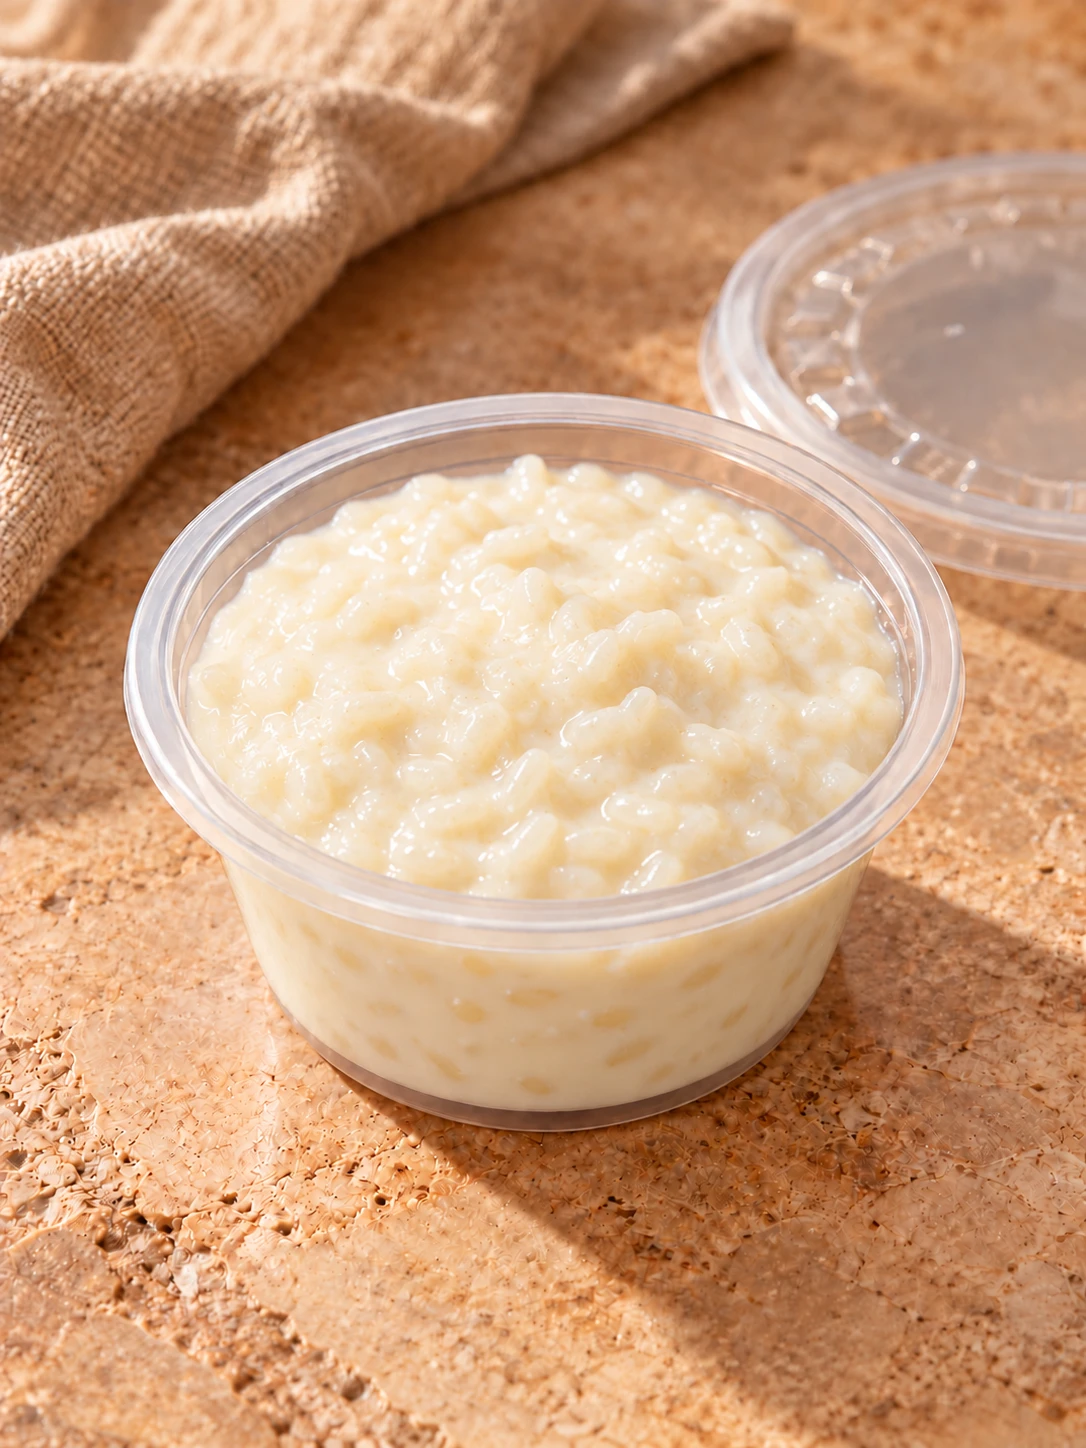
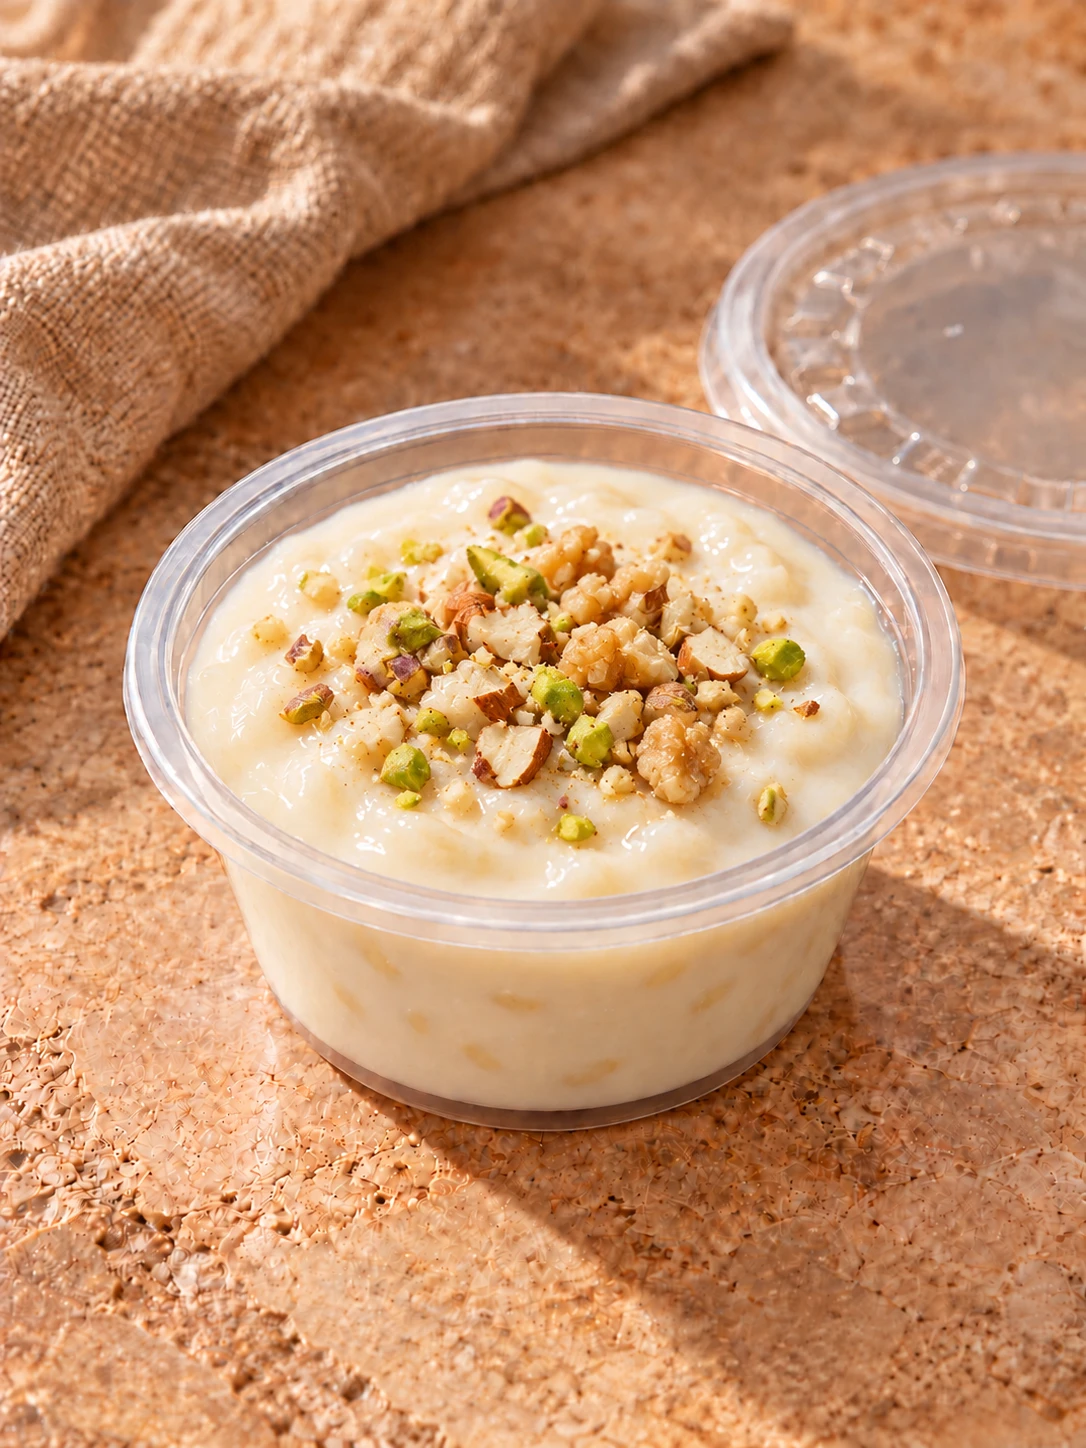
Menu: replace Rice Pudding photo with mixed-nuts version
Same filename overwritten with the new photo; description updated to
mention the optional mixed nuts topping. Price unchanged ($7).

Bumped the asset cache-buster to v48.

diff --git a/about.html b/about.html
@@ -23,9 +23,9 @@
 <link rel="preconnect" href="https://fonts.gstatic.com" crossorigin>
 <link rel="preconnect" href="https://images.unsplash.com" crossorigin>
 <link rel="stylesheet" href="https://fonts.googleapis.com/css2?family=Cormorant+Garamond:ital,wght@0,300;0,400;0,500;1,300;1,400&family=Jost:wght@200;300;400;500&family=Noto+Kufi+Arabic:wght@400;600;700&display=swap">
-<link rel="stylesheet" href="assets/css/main.css?v=47">
-<link rel="stylesheet" href="assets/css/pages.css?v=47">
-<link rel="stylesheet" href="assets/css/pharaonic.css?v=47">
+<link rel="stylesheet" href="assets/css/main.css?v=48">
+<link rel="stylesheet" href="assets/css/pages.css?v=48">
+<link rel="stylesheet" href="assets/css/pharaonic.css?v=48">
 <script type="application/ld+json">
 {
   "@context": "https://schema.org",
@@ -292,8 +292,8 @@
   </div>
 </footer>
 
-<script src="assets/js/config.js?v=47"></script>
-<script src="assets/js/data.js?v=47"></script>
-<script src="assets/js/main.js?v=47" defer></script>
+<script src="assets/js/config.js?v=48"></script>
+<script src="assets/js/data.js?v=48"></script>
+<script src="assets/js/main.js?v=48" defer></script>
 </body>
 </html>

diff --git a/catering.html b/catering.html
@@ -23,9 +23,9 @@
 <link rel="preconnect" href="https://fonts.gstatic.com" crossorigin>
 <link rel="preconnect" href="https://images.unsplash.com" crossorigin>
 <link rel="stylesheet" href="https://fonts.googleapis.com/css2?family=Cormorant+Garamond:ital,wght@0,300;0,400;0,500;1,300;1,400&family=Jost:wght@200;300;400;500&family=Noto+Kufi+Arabic:wght@400;600;700&display=swap">
-<link rel="stylesheet" href="assets/css/main.css?v=47">
-<link rel="stylesheet" href="assets/css/pages.css?v=47">
-<link rel="stylesheet" href="assets/css/pharaonic.css?v=47">
+<link rel="stylesheet" href="assets/css/main.css?v=48">
+<link rel="stylesheet" href="assets/css/pages.css?v=48">
+<link rel="stylesheet" href="assets/css/pharaonic.css?v=48">
 <script type="application/ld+json">
 {
   "@context": "https://schema.org",
@@ -302,8 +302,8 @@
   </div>
 </footer>
 
-<script src="assets/js/config.js?v=47"></script>
-<script src="assets/js/data.js?v=47"></script>
-<script src="assets/js/main.js?v=47" defer></script>
+<script src="assets/js/config.js?v=48"></script>
+<script src="assets/js/data.js?v=48"></script>
+<script src="assets/js/main.js?v=48" defer></script>
 </body>
 </html>

diff --git a/contact.html b/contact.html
@@ -23,9 +23,9 @@
 <link rel="preconnect" href="https://fonts.gstatic.com" crossorigin>
 <link rel="preconnect" href="https://images.unsplash.com" crossorigin>
 <link rel="stylesheet" href="https://fonts.googleapis.com/css2?family=Cormorant+Garamond:ital,wght@0,300;0,400;0,500;1,300;1,400&family=Jost:wght@200;300;400;500&family=Noto+Kufi+Arabic:wght@400;600;700&display=swap">
-<link rel="stylesheet" href="assets/css/main.css?v=47">
-<link rel="stylesheet" href="assets/css/pages.css?v=47">
-<link rel="stylesheet" href="assets/css/pharaonic.css?v=47">
+<link rel="stylesheet" href="assets/css/main.css?v=48">
+<link rel="stylesheet" href="assets/css/pages.css?v=48">
+<link rel="stylesheet" href="assets/css/pharaonic.css?v=48">
 <script type="application/ld+json">
 {
   "@context": "https://schema.org",
@@ -297,8 +297,8 @@
   </div>
 </footer>
 
-<script src="assets/js/config.js?v=47"></script>
-<script src="assets/js/data.js?v=47"></script>
-<script src="assets/js/main.js?v=47" defer></script>
+<script src="assets/js/config.js?v=48"></script>
+<script src="assets/js/data.js?v=48"></script>
+<script src="assets/js/main.js?v=48" defer></script>
 </body>
 </html>

diff --git a/menu.html b/menu.html
@@ -23,9 +23,9 @@
 <link rel="preconnect" href="https://fonts.gstatic.com" crossorigin>
 <link rel="preconnect" href="https://images.unsplash.com" crossorigin>
 <link rel="stylesheet" href="https://fonts.googleapis.com/css2?family=Cormorant+Garamond:ital,wght@0,300;0,400;0,500;1,300;1,400&family=Jost:wght@200;300;400;500&family=Noto+Kufi+Arabic:wght@400;600;700&display=swap">
-<link rel="stylesheet" href="assets/css/main.css?v=47">
-<link rel="stylesheet" href="assets/css/pages.css?v=47">
-<link rel="stylesheet" href="assets/css/pharaonic.css?v=47">
+<link rel="stylesheet" href="assets/css/main.css?v=48">
+<link rel="stylesheet" href="assets/css/pages.css?v=48">
+<link rel="stylesheet" href="assets/css/pharaonic.css?v=48">
 <script type="application/ld+json">
 {
   "@context": "https://schema.org",
@@ -221,8 +221,8 @@
   </div>
 </footer>
 
-<script src="assets/js/config.js?v=47"></script>
-<script src="assets/js/data.js?v=47"></script>
-<script src="assets/js/main.js?v=47" defer></script>
+<script src="assets/js/config.js?v=48"></script>
+<script src="assets/js/data.js?v=48"></script>
+<script src="assets/js/main.js?v=48" defer></script>
 </body>
 </html>

diff --git a/order.html b/order.html
@@ -23,9 +23,9 @@
 <link rel="preconnect" href="https://fonts.gstatic.com" crossorigin>
 <link rel="preconnect" href="https://images.unsplash.com" crossorigin>
 <link rel="stylesheet" href="https://fonts.googleapis.com/css2?family=Cormorant+Garamond:ital,wght@0,300;0,400;0,500;1,300;1,400&family=Jost:wght@200;300;400;500&family=Noto+Kufi+Arabic:wght@400;600;700&display=swap">
-<link rel="stylesheet" href="assets/css/main.css?v=47">
-<link rel="stylesheet" href="assets/css/pages.css?v=47">
-<link rel="stylesheet" href="assets/css/pharaonic.css?v=47">
+<link rel="stylesheet" href="assets/css/main.css?v=48">
+<link rel="stylesheet" href="assets/css/pages.css?v=48">
+<link rel="stylesheet" href="assets/css/pharaonic.css?v=48">
 <script type="application/ld+json">
 {
   "@context": "https://schema.org",
@@ -303,8 +303,8 @@
   </div>
 </footer>
 
-<script src="assets/js/config.js?v=47"></script>
-<script src="assets/js/data.js?v=47"></script>
-<script src="assets/js/main.js?v=47" defer></script>
+<script src="assets/js/config.js?v=48"></script>
+<script src="assets/js/data.js?v=48"></script>
+<script src="assets/js/main.js?v=48" defer></script>
 </body>
 </html>

diff --git a/index.html b/index.html
@@ -33,9 +33,9 @@
 <link rel="preconnect" href="https://fonts.gstatic.com" crossorigin>
 <link rel="preconnect" href="https://images.unsplash.com" crossorigin>
 <link rel="stylesheet" href="https://fonts.googleapis.com/css2?family=Cormorant+Garamond:ital,wght@0,300;0,400;0,500;1,300;1,400&family=Jost:wght@200;300;400;500&family=Noto+Kufi+Arabic:wght@400;600;700&display=swap">
-<link rel="stylesheet" href="assets/css/main.css?v=47">
-<link rel="stylesheet" href="assets/css/pages.css?v=47">
-<link rel="stylesheet" href="assets/css/pharaonic.css?v=47">
+<link rel="stylesheet" href="assets/css/main.css?v=48">
+<link rel="stylesheet" href="assets/css/pages.css?v=48">
+<link rel="stylesheet" href="assets/css/pharaonic.css?v=48">
 
 <script type="application/ld+json">
 {
@@ -418,8 +418,8 @@
   </div>
 </footer>
 
-<script src="assets/js/config.js?v=47"></script>
-<script src="assets/js/data.js?v=47"></script>
-<script src="assets/js/main.js?v=47" defer></script>
+<script src="assets/js/config.js?v=48"></script>
+<script src="assets/js/data.js?v=48"></script>
+<script src="assets/js/main.js?v=48" defer></script>
 </body>
 </html>

diff --git a/assets/js/data.js b/assets/js/data.js
@@ -94,7 +94,7 @@
 
     { id: "rice-pudding", cat: "desserts", name: "Rice Pudding", ar: "رز باللبن",
       price: 7,
-      desc: "Creamy Egyptian rice pudding with tender rice in a rich, milky base, served chilled in a small dessert cup.",
+      desc: "Creamy Egyptian rice pudding topped with mixed nuts (optional), served chilled in a small dessert cup.",
       tags: ["Vegetarian"], img: "assets/img/menu-real/rice-pudding.webp" },
 
     { id: "creme-caramel", cat: "desserts", name: "Crème Caramel Flan", ar: "كريم كراميل",
